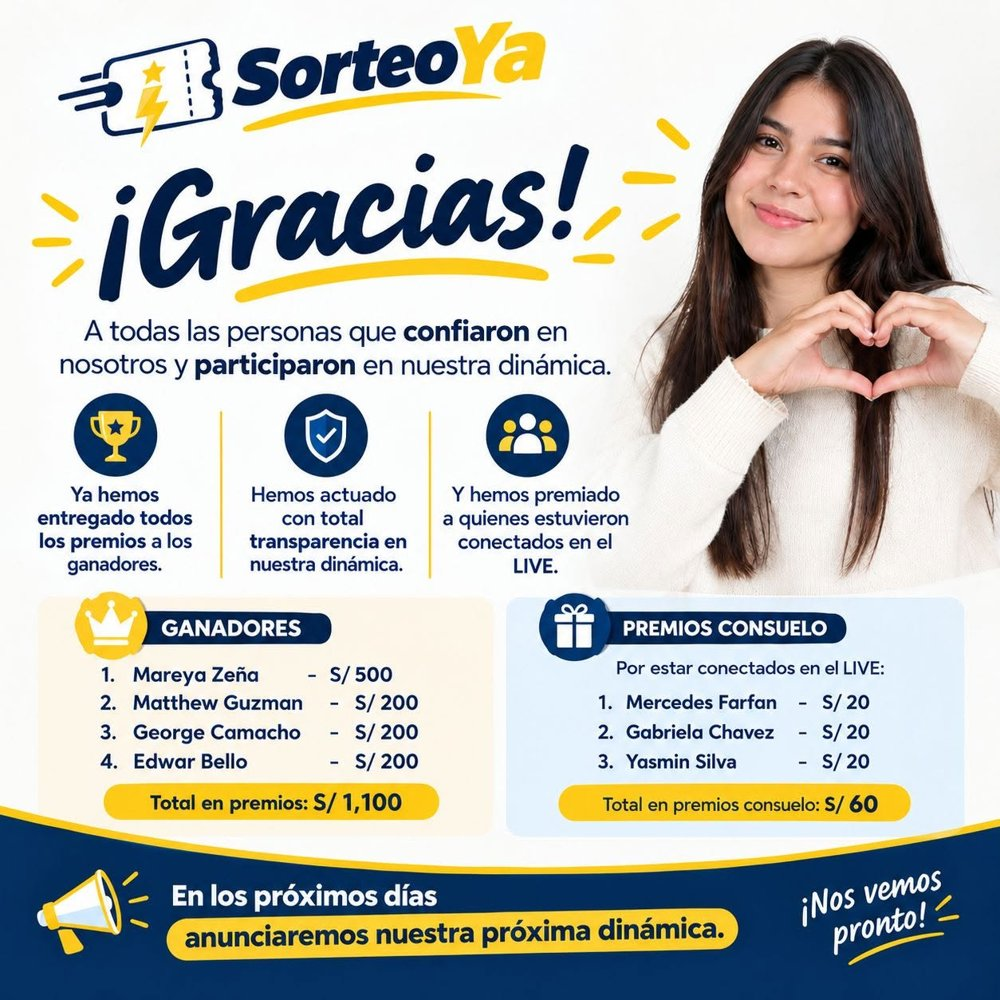
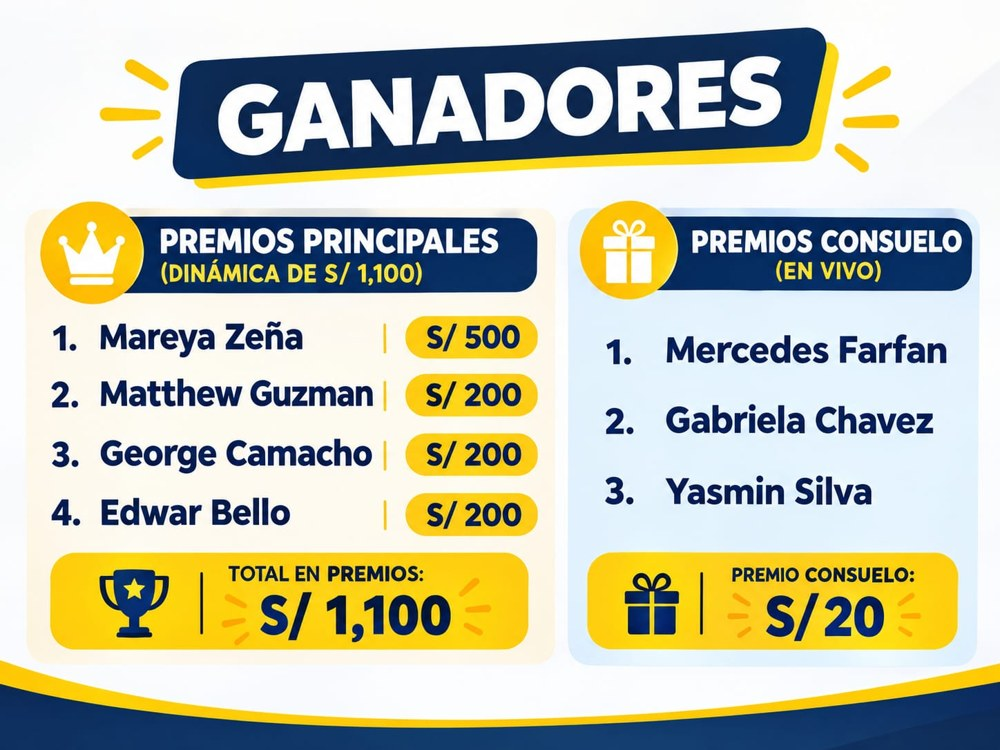
Add files via upload

diff --git a/index.html b/index.html
@@ -114,6 +114,10 @@ footer img{width:60px;border-radius:12px;margin-bottom:6px}
 .ptabs button.yape{background:#8a2be2}.ptabs button.plin{background:#00b8c4}
 .qr{width:210px;max-width:70%;background:#fff;padding:10px;border-radius:14px;margin:12px auto 0;display:block}
 .pay .small{font-size:.8rem;opacity:.8;margin-top:12px}
+.bigs{display:grid;grid-template-columns:repeat(auto-fit,minmax(200px,1fr));gap:12px;margin:14px 0}
+.bigs .prize{margin:0;min-height:260px}
+.bigs .prize.img img{height:210px}
+.bigs .prize strong{font-size:1rem;margin-top:6px}
 </style>
 </head>
 <body>
@@ -227,11 +231,12 @@ async function cargar(){
 function pintarCards(){
   $("cards").innerHTML=SORTEOS.map((s,i)=>{
     const oc=ocupados(s).size,total=s.hasta-s.desde+1,pct=Math.round(oc/total*100);
+    const grandes=s.premios||[{n:s.premio,img:s.imagen}],otros=s.otros||[];
     return `<div class="card">
       <div class="ch"><h3>${s.titulo}</h3><div class="price"><small>S/</small><b>${s.precio}</b><small>POR NÚMERO</small></div></div>
-      <div class="prize img"><span class="tag">🏆 PREMIO</span><img src="${s.imagen}" alt=""><strong>${s.premio}</strong></div>
-      <div class="lbl" style="text-align:left;margin-bottom:6px">+ ${s.otros.length} PREMIOS MÁS · SE SORTEAN POR SEPARADO</div>
-      <div class="minis">${s.otros.map(o=>`<div class="mini"><img src="${o.img}" alt="">${o.n}</div>`).join("")}</div>
+      <div class="bigs">${grandes.map(p=>`<div class="prize img"><span class="tag">🏆 PREMIO MAYOR</span><img src="${p.img}" alt=""><strong>${p.n}</strong></div>`).join("")}</div>
+      ${otros.length?`<div class="lbl" style="text-align:left;margin-bottom:6px">+ ${otros.length} PREMIOS MÁS · CADA PREMIO SE SORTEA POR SEPARADO</div>
+      <div class="minis">${otros.map(o=>`<div class="mini"><img src="${o.img}" alt="">${o.n}</div>`).join("")}</div>`:""}
       <div class="chips"><span class="chip">🎟 1 por S/ ${s.precio}</span><span class="chip">🎟 ${s.packs}</span><span class="chip">Más boletos = más probabilidades</span></div>
       ${aviso(s,total-oc)}
       <div class="prog"><i style="width:${pct}%"></i></div>
